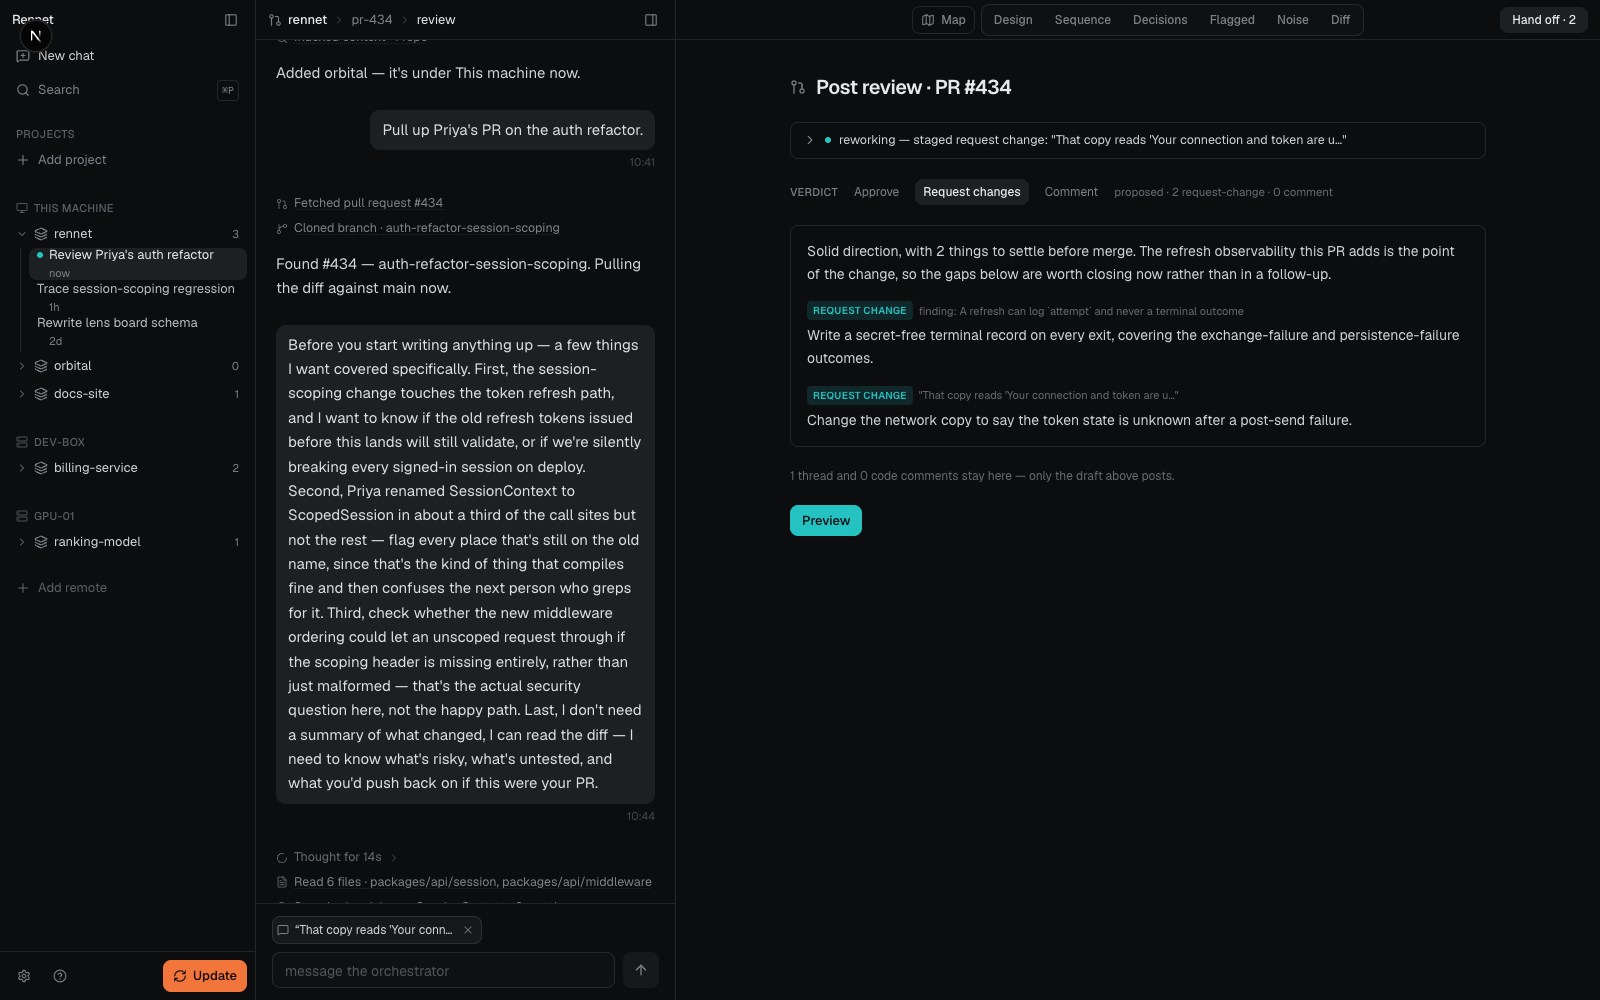
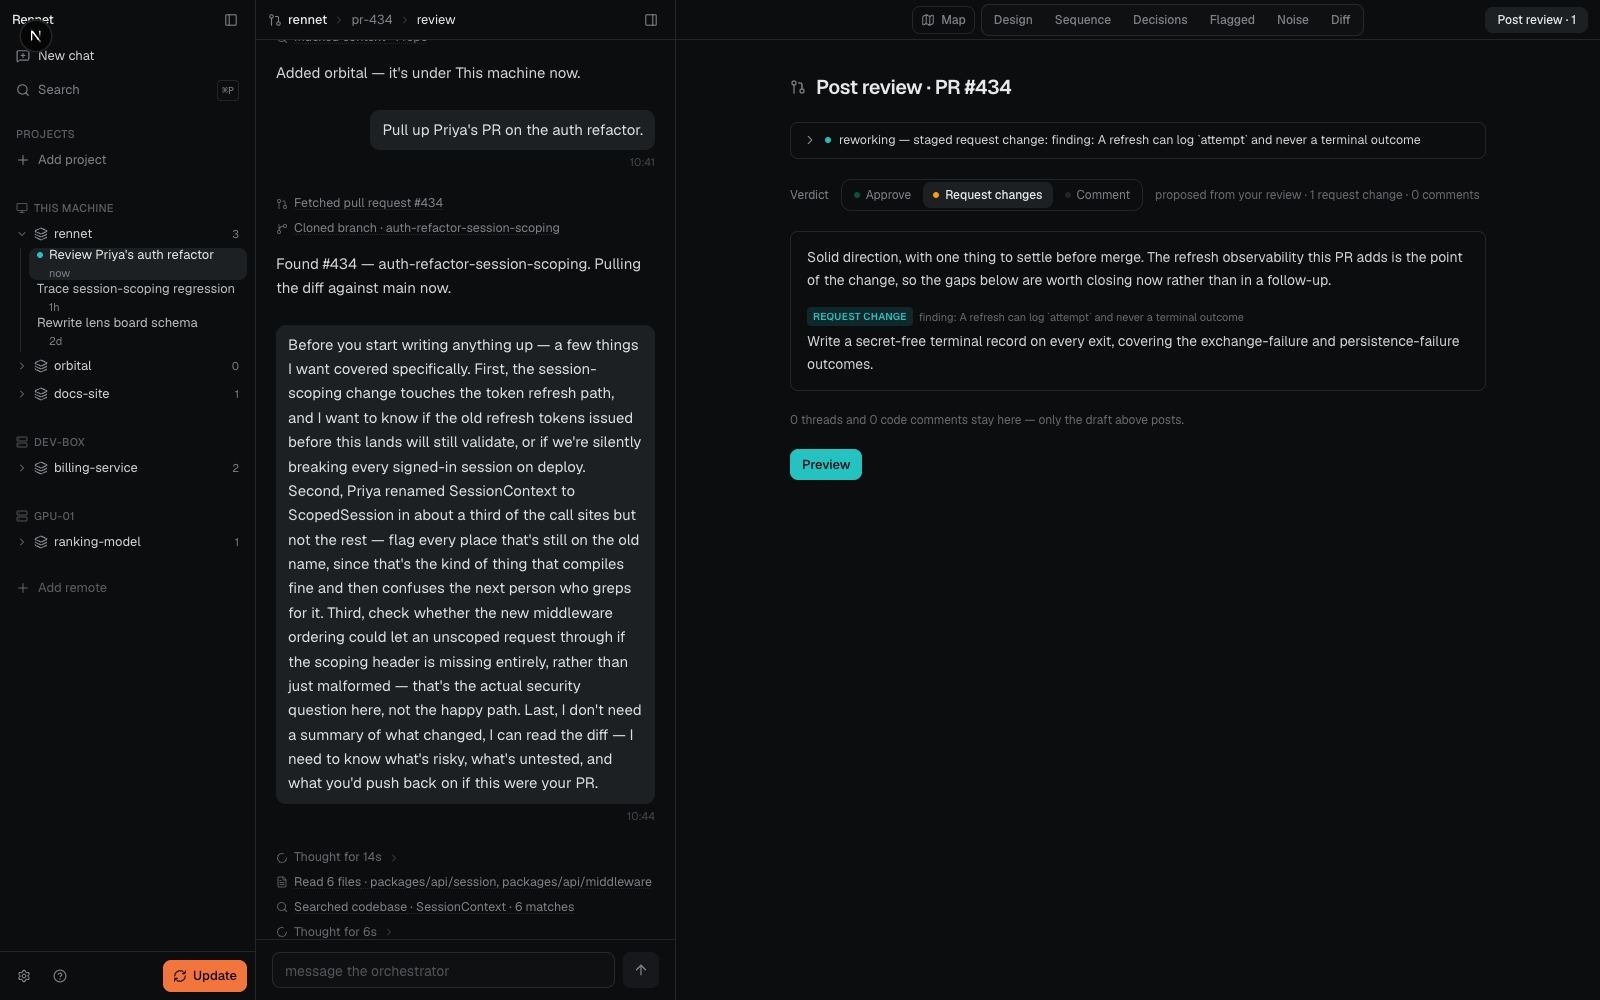
feat(spike): verdict segmented control with state dots; CTA names the exit (Post review · N)

diff --git a/spikes/board-prototype/components/handoff-view.tsx b/spikes/board-prototype/components/handoff-view.tsx
@@ -241,29 +241,51 @@ export function HandoffView({ prLabel = "PR #434" }: { prLabel?: string }) {
         )}
 
         {/* Verdict */}
-        <div className="flex items-center gap-2">
-          <span className="text-[11px] font-medium uppercase tracking-wide text-muted-foreground">Verdict</span>
-          {(["Approve", "Request changes", "Comment"] as Verdict[]).map((option) => (
-            <button
-              key={option}
-              type="button"
-              disabled={preview}
-              onClick={() => setOverride(option === derived ? null : option)}
-              className={cn(
-                "rounded-md px-2 py-1 text-[12px] transition-colors",
-                option === verdict
-                  ? "bg-secondary font-medium text-foreground"
-                  : "text-muted-foreground hover:text-foreground",
-                preview && option !== verdict && "opacity-40",
-              )}
-            >
-              {option}
-            </button>
-          ))}
-          <span className="text-[11.5px] text-muted-foreground/80">
-            {override
-              ? "overridden by you"
-              : `proposed · ${requestChangeCount} request-change · ${commentCount} comment`}
+        <div className="flex flex-wrap items-center gap-x-3 gap-y-1.5">
+          <span className="text-[12px] text-muted-foreground">Verdict</span>
+          <div className="flex items-center gap-0.5 rounded-lg border border-border p-0.5">
+            {(["Approve", "Request changes", "Comment"] as Verdict[]).map((option) => (
+              <button
+                key={option}
+                type="button"
+                disabled={preview}
+                onClick={() => setOverride(option === derived ? null : option)}
+                className={cn(
+                  "flex items-center gap-1.5 rounded-md px-2.5 py-1 text-[12px] transition-colors",
+                  option === verdict
+                    ? "bg-secondary font-medium text-foreground shadow-sm"
+                    : "text-muted-foreground hover:text-foreground",
+                  preview && option !== verdict && "opacity-40",
+                )}
+              >
+                <span
+                  className={cn(
+                    "size-1.5 rounded-full",
+                    option === "Approve" && "bg-emerald-500",
+                    option === "Request changes" && "bg-amber-500",
+                    option === "Comment" && "bg-muted-foreground/50",
+                    option !== verdict && "opacity-40",
+                  )}
+                />
+                {option}
+              </button>
+            ))}
+          </div>
+          <span className="text-[12px] text-muted-foreground/80">
+            {override ? (
+              <>
+                overridden — proposed {derived.toLowerCase()}{" "}
+                <button
+                  type="button"
+                  onClick={() => setOverride(null)}
+                  className="underline decoration-dotted underline-offset-2 hover:text-foreground"
+                >
+                  use proposal
+                </button>
+              </>
+            ) : (
+              `proposed from your review · ${requestChangeCount} request change${requestChangeCount === 1 ? "" : "s"} · ${commentCount} comment${commentCount === 1 ? "" : "s"}`
+            )}
           </span>
         </div>
 

diff --git a/spikes/board-prototype/components/main-surface.tsx b/spikes/board-prototype/components/main-surface.tsx
@@ -95,7 +95,7 @@ export function MainSurface({
                 : "bg-primary text-primary-foreground hover:bg-primary/90",
             )}
           >
-            Hand off{askCount > 0 ? ` · ${askCount}` : ""}
+            Post review{askCount > 0 ? ` · ${askCount}` : ""}
           </button>
         </div>
       </header>
